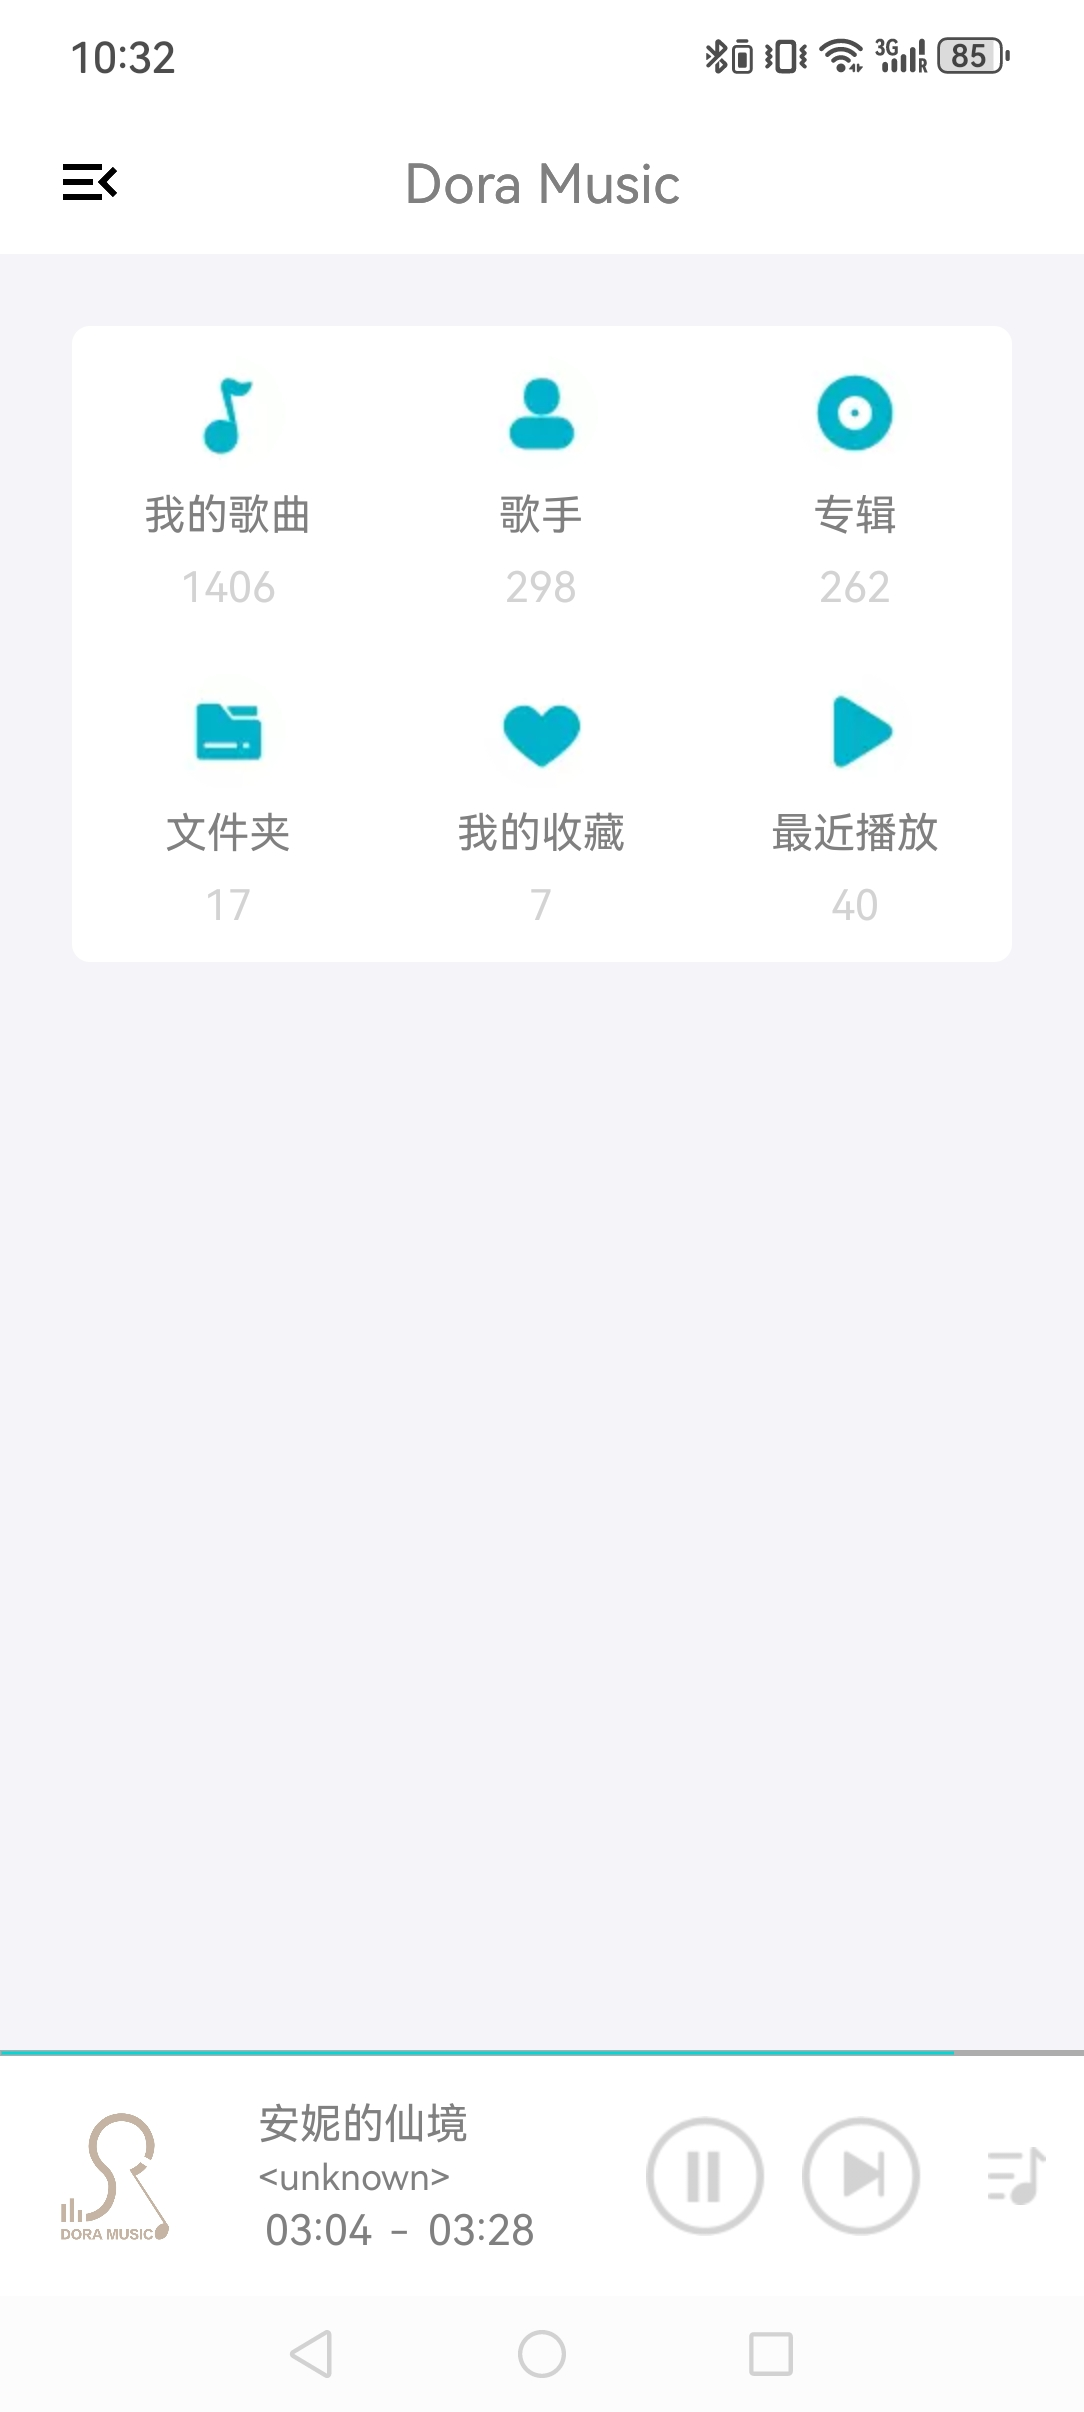
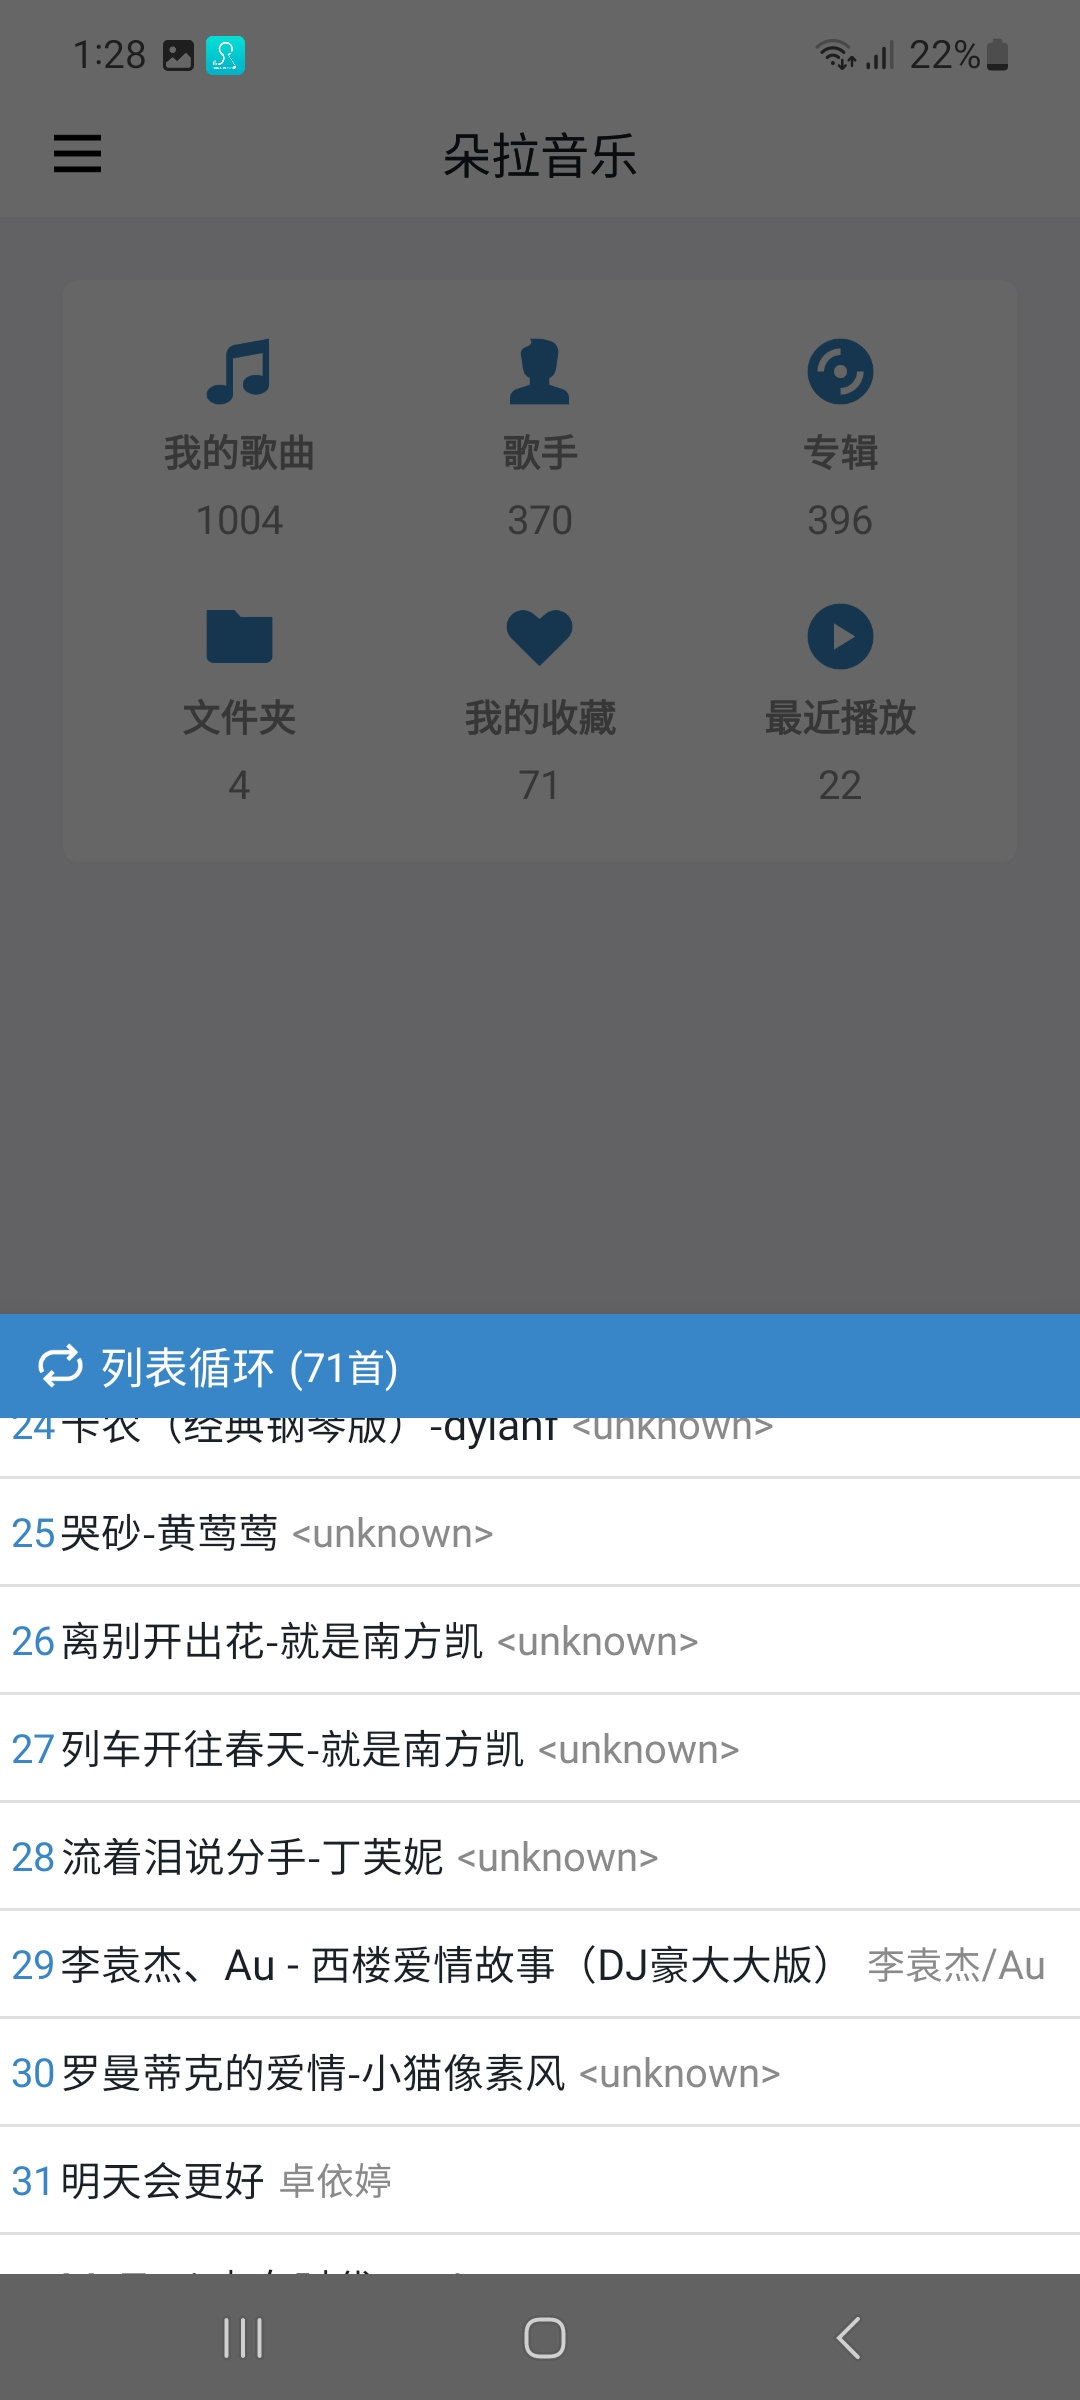
UI改版

diff --git a/README.md b/README.md
@@ -76,25 +76,22 @@ https://github.com/dora4/DoraMusic/blob/main/Recommend_DJ.md
 ### 软件截图
 
 1. 快捷播放列表（便于单手操作）
-<p><img width="542" height="1206" src="https://doramusic.oss-cn-hangzhou.aliyuncs.com/Screenshot/Screenshot_1.jpg"></p>
+<p><img width="542" height="1206" src="https://doramusic.oss-cn-hangzhou.aliyuncs.com/Screenshot/Screenshot_20260117_012819_Dora Music.jpg"></p>
 
 2. 主界面
-<p><img width="542" height="1206" src="https://doramusic.oss-cn-hangzhou.aliyuncs.com/Screenshot/Screenshot_2.jpg"></p>
+<p><img width="542" height="1206" src="https://doramusic.oss-cn-hangzhou.aliyuncs.com/Screenshot/Screenshot_20260117_012746_Dora Music.jpg"></p>
 
-3. 侧边栏
-<p><img width="542" height="1206" src="https://doramusic.oss-cn-hangzhou.aliyuncs.com/Screenshot/Screenshot_3.jpg"></p>
+3. 字母导航
+<p><img width="542" height="1206" src="https://doramusic.oss-cn-hangzhou.aliyuncs.com/Screenshot/Screenshot_20260117_013332_Dora Music.jpg"></p>
 
-4. 通知
-<p><img width="542" height="1206" src="https://doramusic.oss-cn-hangzhou.aliyuncs.com/Screenshot/Screenshot_4.jpg"></p>
+4. 设置
+<p><img width="542" height="1206" src="https://doramusic.oss-cn-hangzhou.aliyuncs.com/Screenshot/Screenshot_20260117_013426_Dora Music.jpg"></p>
 
-5. 均衡器
-<p><img width="542" height="1206" src="https://doramusic.oss-cn-hangzhou.aliyuncs.com/Screenshot/Screenshot_5.jpg"></p>
+5. 更换主题色
+<p><img width="542" height="1206" src="https://doramusic.oss-cn-hangzhou.aliyuncs.com/Screenshot/Screenshot_20260117_012805_Dora Music.jpg"></p>
 
 6. 播放控制
-<p><img width="542" height="1206" src="https://doramusic.oss-cn-hangzhou.aliyuncs.com/Screenshot/Screenshot_6.jpg"></p>
-
-7. 歌词
-<p><img width="542" height="1206" src="https://doramusic.oss-cn-hangzhou.aliyuncs.com/Screenshot/Screenshot_7.jpg"></p>
+<p><img width="542" height="1206" src="https://doramusic.oss-cn-hangzhou.aliyuncs.com/Screenshot/Screenshot_20260117_013230_Dora Music.jpg"></p>
 
 本开源项目仅限学习交流用途的分享传播，未经授权禁止用于其他用途。版权所有，侵权必究！
 
